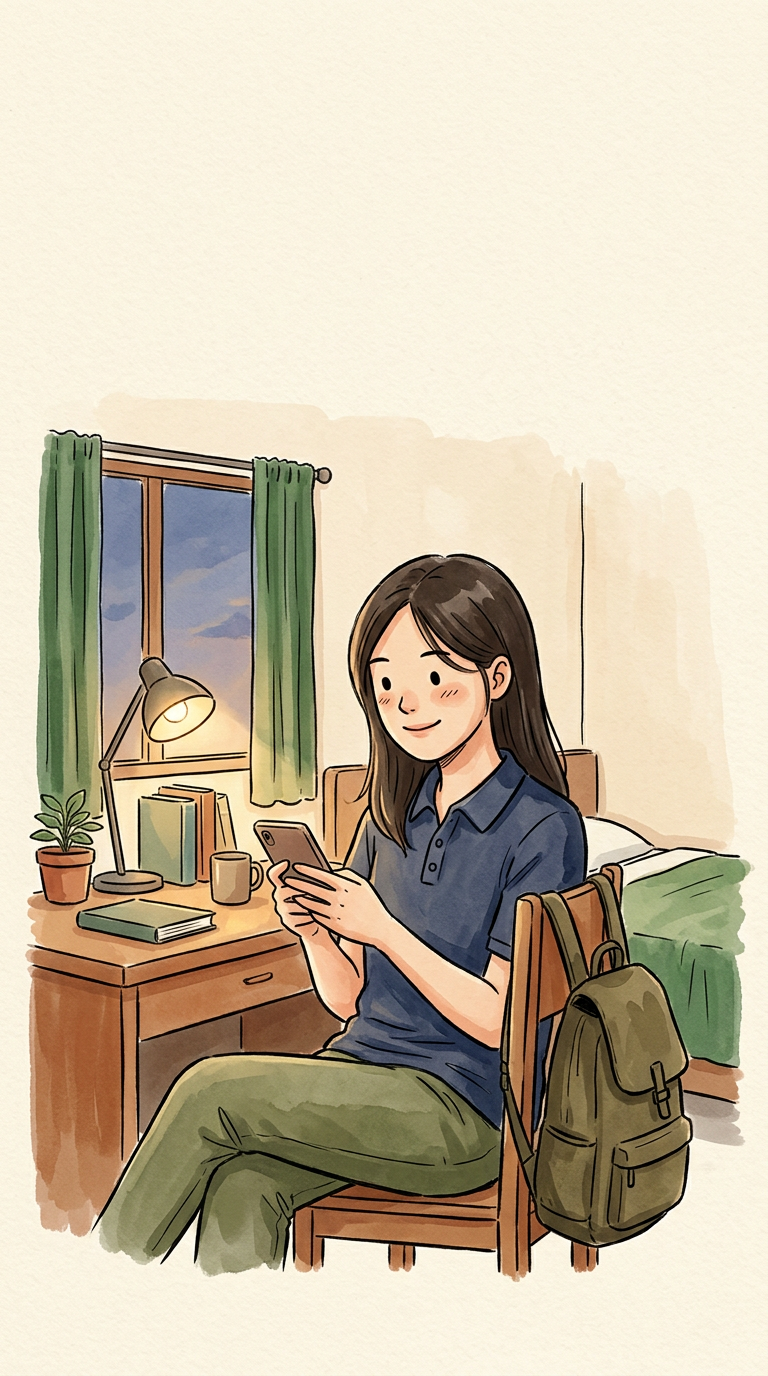
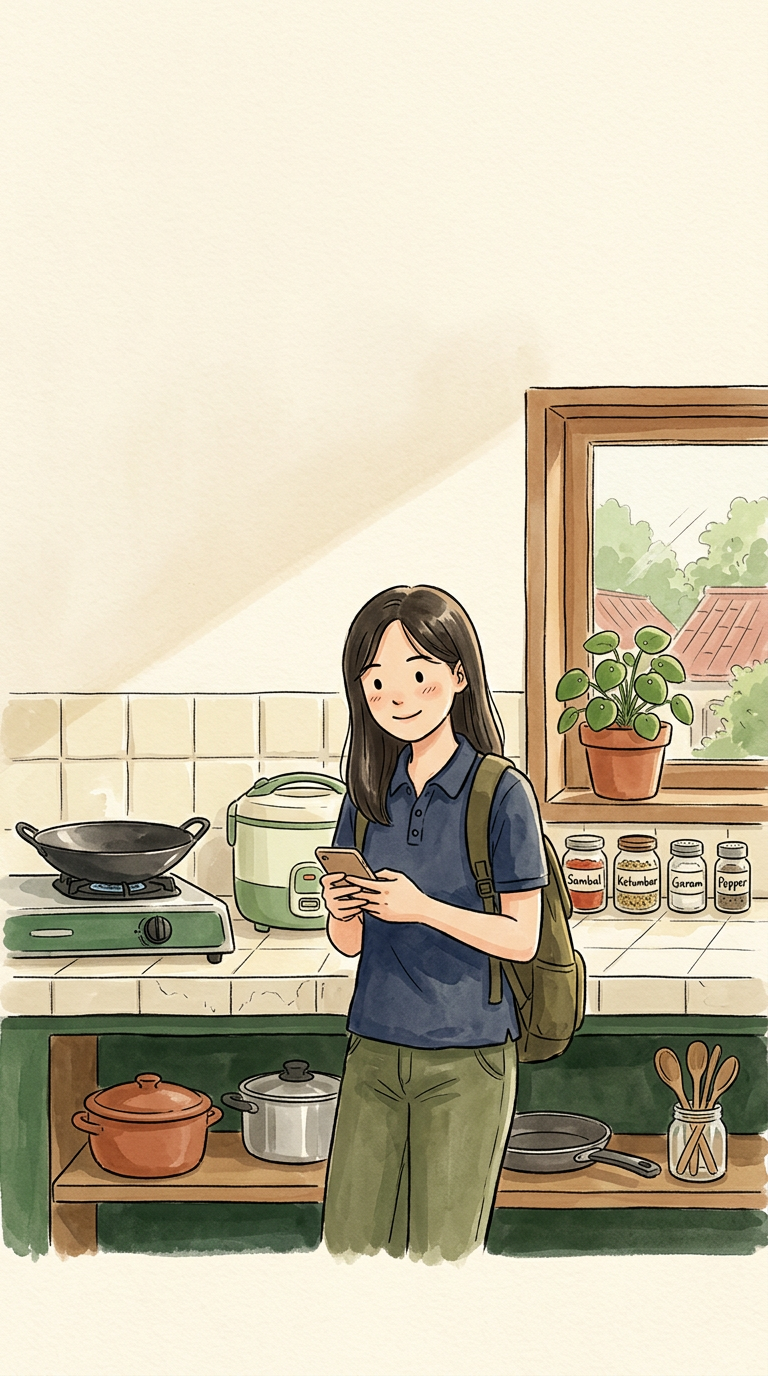
Match the ad's map pins and student scene to the app
The ad's Peta screen now draws the app's photo pins (food photo in a
circle, green ring free, terracotta paid; the chosen one grows to 52 px)
through mapScreen's new pins: 'photo' option. The feature promo keeps
the price pills. The student panel now shows her in the same kitchen.

diff --git a/render/web/scenes/nearby.js b/render/web/scenes/nearby.js
@@ -3,14 +3,15 @@
 import { color, alpha, display, ui, motion, springs } from '../tokens.js';
 import { enter, lerp, pop, rng } from '../ease.js';
 import { struck } from '../spring.js';
-import { caption, featureLayout, fillStage, listingCard, pricePin, risingPhone, rrect, text, userPin } from '../draw.js';
+import { caption, featureLayout, fillStage, listingCard, photoPin, pricePin, risingPhone, rrect, text, userPin } from '../draw.js';
 
-// Offsets from the user pin. The first one is the lodeh listing on the card.
+// Offsets from the user pin. The first one is the lodeh listing on the card. `label` is the promo's price pin, `photo`
+// the ad's photo pin (the app's current map).
 const PINS = [
-  { dx: -96, dy: -96, label: 'Gratis', free: true },
-  { dx: 112, dy: -58, label: 'Rp5.000', free: false },
-  { dx: -52, dy: 118, label: 'Gratis', free: true },
-  { dx: 126, dy: 96, label: 'Gratis', free: true },
+  { dx: -96, dy: -96, label: 'Gratis', photo: 'lodeh', free: true },
+  { dx: 112, dy: -58, label: 'Rp5.000', photo: 'ayam', free: false },
+  { dx: -52, dy: 118, label: 'Gratis', photo: 'sayur', free: true },
+  { dx: 126, dy: 96, label: 'Gratis', photo: 'roti', free: true },
 ];
 
 export default {
@@ -27,8 +28,11 @@ export default {
 /** Where the listing card sits on the map screen. The ad lifts the card out of the phone from exactly here. */
 export const mapCardRect = (sx, sy, sw, sh) => [sx + 14, sy + sh - 212, sw - 28, 190];
 
-/** The Peta screen at scene time `t`. `card: false` leaves the listing card out (the ad draws it floating instead). */
-export function mapScreen(ctx, t, img, sx, sy, sw, sh, { card = true } = {}) {
+/**
+ * The Peta screen at scene time `t`. `card: false` leaves the listing card out (the ad draws it floating instead).
+ * `pins: 'photo'` draws the app's photo pins in place of the price labels.
+ */
+export function mapScreen(ctx, t, img, sx, sy, sw, sh, { card = true, pins = 'price' } = {}) {
   ctx.fillStyle = color.background;
   ctx.fillRect(sx, sy, sw, sh);
   text(ctx, 'Peta', sx + 24, sy + 104, { font: display(30, 800), fill: color.ink, spacing: -0.9 });
@@ -72,6 +76,16 @@ export function mapScreen(ctx, t, img, sx, sy, sw, sh, { card = true } = {}) {
   PINS.forEach((p, i) => {
     const pp = pop(t, 0.26 + i * motion.stagger * 2);
     const selected = i === 0 ? enter(t, 0.66) : 0;
+    if (pins === 'photo') {
+      // The chosen pin grows from 44 to 52 px with a green ring, as in the app.
+      photoPin(ctx, img[p.photo], cx + p.dx, cy + p.dy, {
+        size: lerp(44, 52, selected),
+        ring: p.free ? color.primary : color.accent,
+        scale: pp.scale,
+        opacity: pp.alpha,
+      });
+      return;
+    }
     pricePin(ctx, p.label, cx + p.dx, cy + p.dy, {
       fill: p.free ? color.primary : color.surface,
       ink: p.free ? color.surface : color.ink,

diff --git a/render/web/scenes/adOpportunity.js b/render/web/scenes/adOpportunity.js
@@ -1,5 +1,5 @@
-// Ad scene 2 (4–7 s): match cut from the kitchen to a split frame. The surplus meal sits in the top panel, a student in a
-// nearby kos room in the bottom one, and a walking route draws itself from the food to the student.
+// Ad scene 2 (4–7 s): match cut from the kitchen to a split frame. The surplus meal sits in the top panel, the student in
+// the same kitchen in the bottom one, and a walking route draws itself from the food to the student.
 
 import { color, alpha, display, springs } from '../tokens.js';
 import { enter, fade, lerp, pop } from '../ease.js';
@@ -17,9 +17,9 @@ const ARRIVE = CUES.arrive - SCENES.opportunity;
 const TOP = { x: 60, y: 110, w: 960, h: 660, r: 44 };
 const BOTTOM = { x: 60, y: 1140, w: 960, h: 700, r: 44 };
 // The student's phone in room.png, normalised: where the route ends.
-const STUDENT_PHONE = { x: 0.38, y: 0.61 };
-// What the room panel frames on: between her face and her phone, so her head keeps some room above it.
-const STUDENT_FRAME = { x: 0.5, y: 0.56 };
+const STUDENT_PHONE = { x: 0.45, y: 0.625 };
+// What the student panel frames on: between her face and her phone, so her head keeps some room above it.
+const STUDENT_FRAME = { x: 0.55, y: 0.57 };
 
 function panelShadow(ctx, { x, y, w, h, r }) {
   ctx.save();
@@ -118,7 +118,7 @@ export default {
     // Scene 1's cream wash over the top of the frame dissolves instead of vanishing on the cut.
     creamWash(ctx, stage, 1 - fade(t, 0));
 
-    // The student's room rises in as the bottom panel and lands with a little give.
+    // The student, in the same kitchen, rises in as the bottom panel and lands with a little give.
     const up = springAt(t, ROOM, springs.land);
     let student = null;
     if (up > 0) {

diff --git a/render/web/draw.js b/render/web/draw.js
@@ -190,6 +190,37 @@ export function pricePin(ctx, label, x, y, { fill, ink, stroke, scale = 1, opaci
   ctx.restore();
 }
 
+/**
+ * The app's map pin: a food photo in a circle `size` wide, with a white rim and a coloured `ring` (green free, terracotta
+ * paid), centred on (x, y). No price: the card shows it.
+ */
+export function photoPin(ctx, image, x, y, { size = 44, ring = color.primary, scale = 1, opacity = 1 }) {
+  if (opacity <= 0) return;
+  const r = size / 2;
+  ctx.save();
+  ctx.globalAlpha *= opacity;
+  ctx.translate(x, y);
+  ctx.scale(scale, scale);
+  ctx.save();
+  ctx.shadowColor = alpha(color.ink, 0.18);
+  ctx.shadowBlur = 6;
+  ctx.shadowOffsetY = 2;
+  ctx.beginPath();
+  ctx.arc(0, 0, r, 0, Math.PI * 2);
+  ctx.fillStyle = ring;
+  ctx.fill();
+  ctx.restore();
+  ctx.beginPath();
+  ctx.arc(0, 0, r - 2, 0, Math.PI * 2);
+  ctx.fillStyle = color.surface;
+  ctx.fill();
+  ctx.beginPath();
+  ctx.arc(0, 0, r - 5, 0, Math.PI * 2);
+  ctx.clip();
+  cover(ctx, image, -(r - 5), -(r - 5), 2 * (r - 5), 2 * (r - 5));
+  ctx.restore();
+}
+
 /** The receiver's own location: a green dot with a white ring. */
 export function userPin(ctx, x, y, r = 12) {
   ctx.save();

diff --git a/render/web/engine.js b/render/web/engine.js
@@ -34,6 +34,10 @@ const STAGES = { landscape: { w: 1920, h: 1080, portrait: false }, portrait: { w
 const ASSETS = '/assets/';
 const IMAGES = {
   lodeh: `${ASSETS}images/food/lodeh.jpg`,
+  // The other photo pins on the ad's map.
+  ayam: `${ASSETS}images/food/ayam.jpg`,
+  sayur: `${ASSETS}images/food/sayur.jpg`,
+  roti: `${ASSETS}images/food/roti.jpg`,
   wordmark: `${ASSETS}images/brand/wordmark.png`,
   // Watercolour scenes for the ad, generated with Figma AI in the style of the onboarding art (see AD.md).
   kitchen: '/media/kitchen.png',

diff --git a/render/web/scenes/adRescue.js b/render/web/scenes/adRescue.js
@@ -278,7 +278,7 @@ export default {
             ctx,
             struck(t, TO_CHAT, springs.ui),
             sw,
-            () => mapScreen(ctx, MAP_END + t, img, sx, sy, sw, sh, { card: false }),
+            () => mapScreen(ctx, MAP_END + t, img, sx, sy, sw, sh, { card: false, pins: 'photo' }),
             () => chatScreen(ctx, t - TO_CHAT, img, sx, sy, sw, sh),
           ),
         );

diff --git a/render/web/scenes/adConnect.js b/render/web/scenes/adConnect.js
@@ -132,7 +132,7 @@ function screen(ctx, t, img, push, sx, sy, sw, sh) {
         ctx.fillRect(sx, sy, sw, sh);
       }
     },
-    () => mapScreen(ctx, t - TO_MAP, img, sx, sy, sw, sh, { card: t < LIFT }),
+    () => mapScreen(ctx, t - TO_MAP, img, sx, sy, sw, sh, { card: t < LIFT, pins: 'photo' }),
   );
 }
 

diff --git a/render/AD.md b/render/AD.md
@@ -27,7 +27,7 @@ This is the opening 20 seconds of the team's two-minute hackathon pitch video. T
 | Time | Scene | What happens | On-screen text |
 | --- | --- | --- | --- |
 | 00:00–00:04 | Problem | Kos kitchen. A container of freshly cooked rice and sayur lodeh sits on the counter. A slow dolly push-in, steam rising; from 1.5 s the light sinks toward dusk and the steam thins: nobody has come for it. | **Masak kebanyakan?** (0.5 s, leaves on 3.5 s) |
-| 00:04–00:07 | Opportunity | Match cut: the kitchen settles into a top panel, still drifting, and the customer (a student in a nearby kos room) lands below. At 5.0 s a walking route runs from the food down the margin to her phone, arriving at 6.0 s with a pulse. | **Jangan biarkan jadi sia-sia.** (4.5 s) · "300 m · ± 4 mnt jalan kaki" (5.5 s) |
+| 00:04–00:07 | Opportunity | Match cut: the kitchen settles into a top panel, still drifting, and the customer (a student, standing in the same kitchen) lands below. At 5.0 s a walking route runs from the food down the margin to her phone, arriving at 6.0 s with a pulse. | **Jangan biarkan jadi sia-sia.** (4.5 s) · "300 m · ± 4 mnt jalan kaki" (5.5 s) |
 | 00:07–00:11 | PawonFood connects | The phone is thrown up and lands with a little give. AI detection closes on the meal (8.0), shutter (8.5), push to the Peta map (9.0); the listing card floats out of the phone and bobs (10.0). | **Kenalkan, PawonFood.** (7.5) · "Temukan makanan di sekitarmu." (9.5) |
 | 00:11–00:16 | Rescue in action | Card pressed with a tap ripple (11.5) → push to the chat (12.0): "Saya ambil ya." and "Ambil gratis disetujui" (12.5) → a window opens from the listing photo (13.0) onto the same customer receiving the container (13.5) → illustrative QR check (14.0–14.5) → success mark (15.0). | **Temukan. Pesan. Ambil.** (each word lights on its action: 11.5, 12.5, 13.5) |
 | 00:16–00:20 | Brand reveal | Cream floods out from the success mark (16.0). Logo (16.5) with a little steam rising from the Tungku, wordmark, then one line per beat and the terracotta underline (18.5). A slow push-in carries it under the speaker. | **Dari dapur ke komunitas.** (17.0) / **Masak kebanyakan?** (17.5) / **Bagikan, jangan buang.** (18.0) |
@@ -94,7 +94,7 @@ Recording tips:
 | File | Subject (rest of the prompt) |
 | --- | --- |
 | `kitchen.png` | A small, lived-in Indonesian kos kitchen. One neatly packed, lidded clear container of white rice and green sayur lodeh with tempeh sits centred in the lower third, with warm window light and an empty upper third. No people, no text. |
-| `room.png` | The recurring customer in a tidy kos room in the early evening, sitting at a wooden desk and glancing down at a phone held in both hands at chest height, calm and friendly. Her backpack hangs on the chair; desk lamp, books, mug, plant, window with green curtains, bed with a green blanket. Empty upper third, no text. |
+| `room.png` | The recurring customer, waist up and centred, standing in the `kitchen.png` kitchen (described in text, since Figma AI takes no reference image): cream tiled counter, green two-burner stove with a wok, pale green rice cooker, spice jars labelled "Sambal", "Ketumbar", "Garam", "Pepper", wooden window with a pilea in a terracotta pot, dark green open shelf with pots below. The counter has no food container. She glances down at a phone held in both hands at chest height, backpack on one shoulder. Empty upper third, face at about 40% height, phone at about 58%, no other text. |
 | `handover.png` | At a kos doorway, a friendly woman in an apron hands the same container to the recurring customer. Both are equals and neighbours; hands and container are centred. No text. |
 
 If you regenerate an image, check the new anchor points before rendering:
@@ -112,7 +112,7 @@ The kitchen spice jars carry legible labels (Sambal, Ketumbar, garam, pepper). T
 - The QR is illustrative and encodes nothing.
 - There are no statistics, testimonials, partners or impact numbers. Tier names are left out on purpose.
 - The AI step is shown as detection ("Makanan terdeteksi, siap difoto"), not as a food-safety guarantee.
-- **Slogan:** the PRD's official slogan is "Dari dapur ke dapur". This ad uses "Dari dapur ke komunitas" at the team's request. Keep it consistent with the rest of the pitch.
+- **Slogan:** "Dari dapur ke komunitas" is the official slogan (PRD, README, app and this ad agree since 2026-10-15; it was "Dari dapur ke dapur" before). Keep it consistent with the rest of the pitch.
 
 ## Export checklist
 
